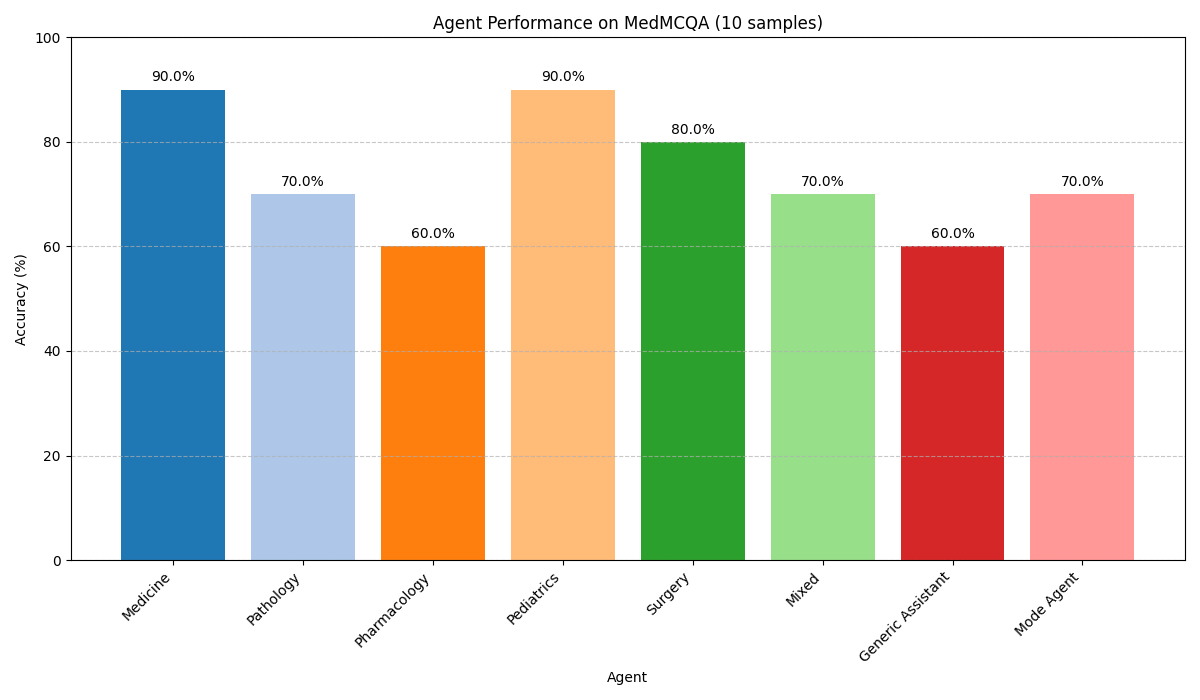
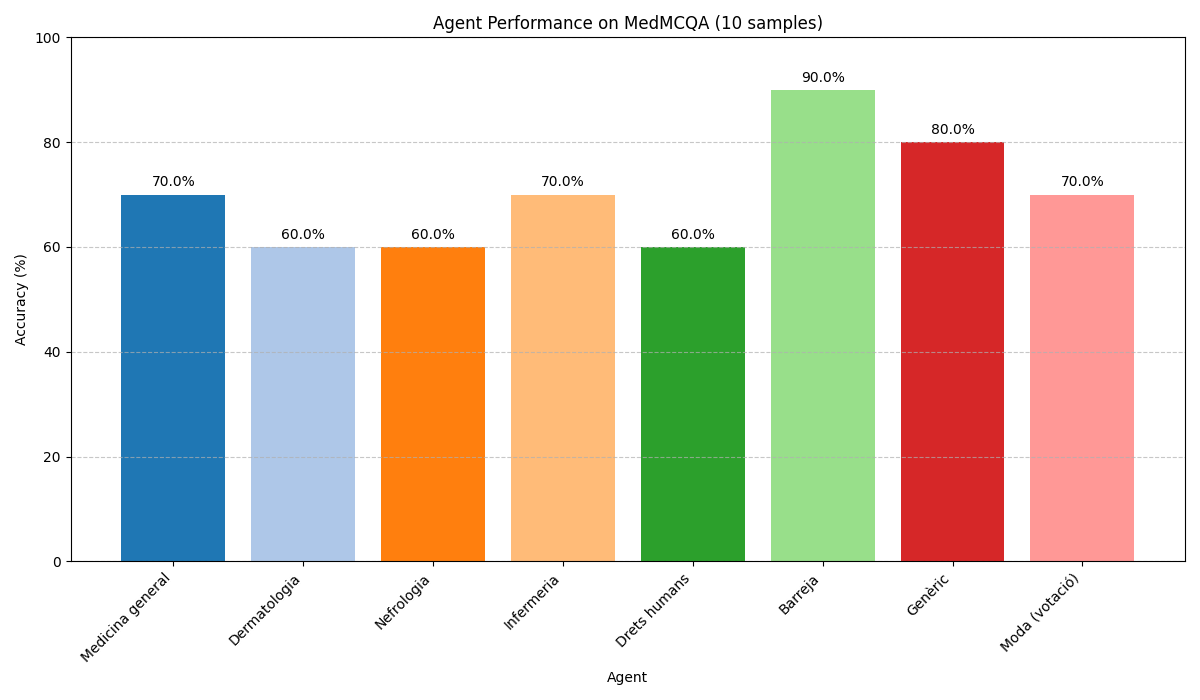
minor changes

diff --git a/mvp.py b/mvp.py
@@ -31,10 +31,15 @@ MAX_OUTPUT_TOKENS_WITH_REASONING = 1000
 NUM_SAMPLES_TO_TEST = 10
 SUBJECTS = [
     "Medicine",
-    "Pathology",
-    "Pharmacology",
-    "Pediatrics",
-    "Surgery",
+    "Skin",
+    "Gynaecology_Obstetrics",
+    "Anatomy",
+    "Social_Preventive_Medicine",
+    # "Medicine",
+    # "Pathology",
+    # "Pharmacology",
+    # "Pediatrics",
+    # "Surgery",
     # "Anaesthesia",
     # "Anatomy",
     # "Biochemistry",
@@ -196,6 +201,16 @@ for agent_name, results in agent_results.items():
 
 
 agent_names_for_plot = list(accuracies.keys())
+agent_names_for_plot = [
+    "Medicina general",
+    "Dermatologia",
+    "Nefrologia",
+    "Infermeria",
+    "Drets humans",
+    "Barreja",
+    "Genèric",
+    "Moda (votació)",
+]
 accuracy_values = list(accuracies.values())
 plt.figure(figsize=(12, 7))
 # Use a color palette with over 20 different colors

diff --git a/README.md b/README.md
@@ -1,0 +1,7 @@
+Es recomana executar-ho en un entorn virtual. 
+```bash
+python3.11 -m venv .venv-stable
+.\.venv-stable\Scripts\activate
+$env:GOOGLE_API_KEY = "YOUR_ACTUAL_API_KEY_HERE"
+pip install -r requirements.txt
+```
